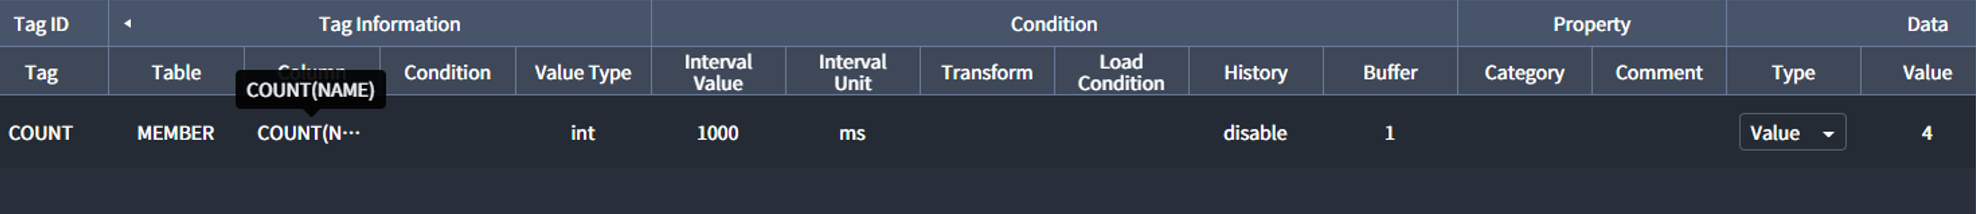
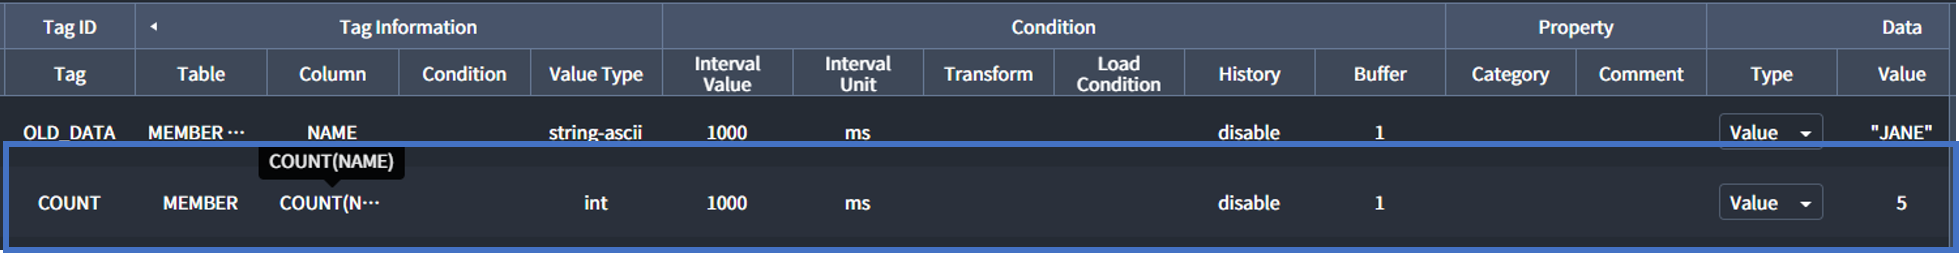
[Docs] enhancement maria custom page

diff --git a/docs/md/database/mariaDBCustom.md b/docs/md/database/mariaDBCustom.md
@@ -119,16 +119,18 @@ SELECT * FROM `LIMIT`
 ```
 
 ## Actions Example
-`Actions`사용을 위한 예시입니다(<span class="construction"/>).
+`Actions`사용을 위한 예시입니다.
 
-##### 예시) "COUNT" tag값이 100이 넘을 시 event 발생 시키기
+##### 예시) MEMBER TABLE에 데이터가 10개가 넘어가면 제일 오래된 데이터 삭제하기
 
-- Tags 설정: MEMBER 테이블에 저장된 사람 카운트
+- Action의 대상이 되는 Tag
 
 <img src="../../img/database/maria_custom_actions1.png" class="mt-0">
 
-- Actions 설정
+- Actions 설정 내용: `COUNT` Tag의 값이 10이 넘어가면 `DELETE_OLD` Call 호출
 
 <img src="../../img/database/maria_custom_actions2.png" class="mt-0">
 
-- MEMBER 테이블에 저장된 데이터가 100이 넘을 경우 EdgeHub InnerDB로 Event history가 저장됩니다.
+- Calls 설정 내용: Query Editor에 쓰인 `{Tag Reference}`는 가장 오래된 데이터의 `NAME`을 가져옵니다.
+
+<img src="../../img/database/maria_custom_actions3.png" class="mt-0">
